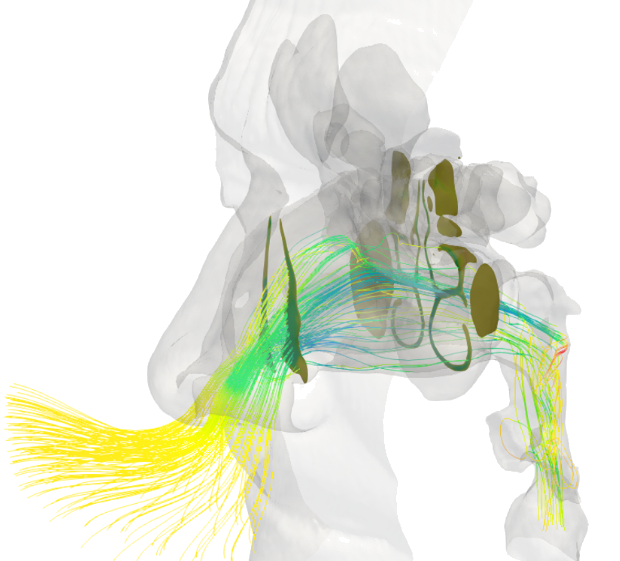
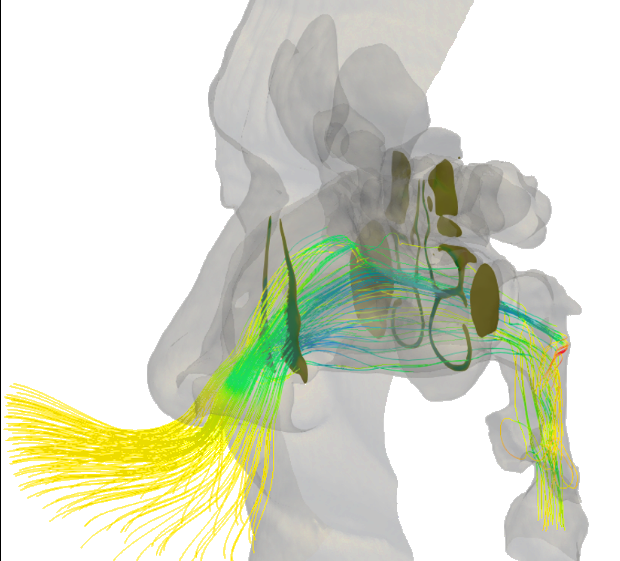
adjusted nose image

diff --git a/index.html b/index.html
@@ -68,13 +68,18 @@
 
         <section>
           <h3>Power vs Cost of CFD</h3>
-          <ul>
-            <li>CFD gives <strong>high-fidelity flow information</strong></li>
-            <li>Works on <strong>complex geometries</strong> and conditions</li>
-            <li>Requires <strong>large computational resources</strong></li>
-            <li>Simulations can take <strong>hours to days</strong></li>
-            <li>Produces <strong>massive high-dimensional data</strong> which usually are limited to few cases</li>
-          </ul>
+          <div class="two-col motivation-layout">
+            <ul>
+              <li>CFD gives <strong>high-fidelity flow information</strong></li>
+              <li>Works on <strong>complex geometries</strong> and conditions</li>
+              <li>Requires <strong>large computational resources</strong></li>
+              <li>Simulations can take <strong>hours to days</strong></li>
+              <li>Produces <strong>massive high-dimensional data</strong> which usually are limited to few cases</li>
+            </ul>
+            <figure class="motivation-figure motivation-figure-portrait">
+              <img src="images/nose-masked.png" alt="CFD airflow field in nasal anatomy" class="no-negative">
+            </figure>
+          </div>
         </section>
 
         <section>

diff --git a/css/custom.css b/css/custom.css
@@ -467,7 +467,7 @@ body.fixed-section-title-out .fixed-section-title {
 }
 
 .reveal section img {
-  clip-path: inset(2px);
+  clip-path: inset(3px);
   transition: filter 0.2s ease, transform 0.3s ease;
 }
 
